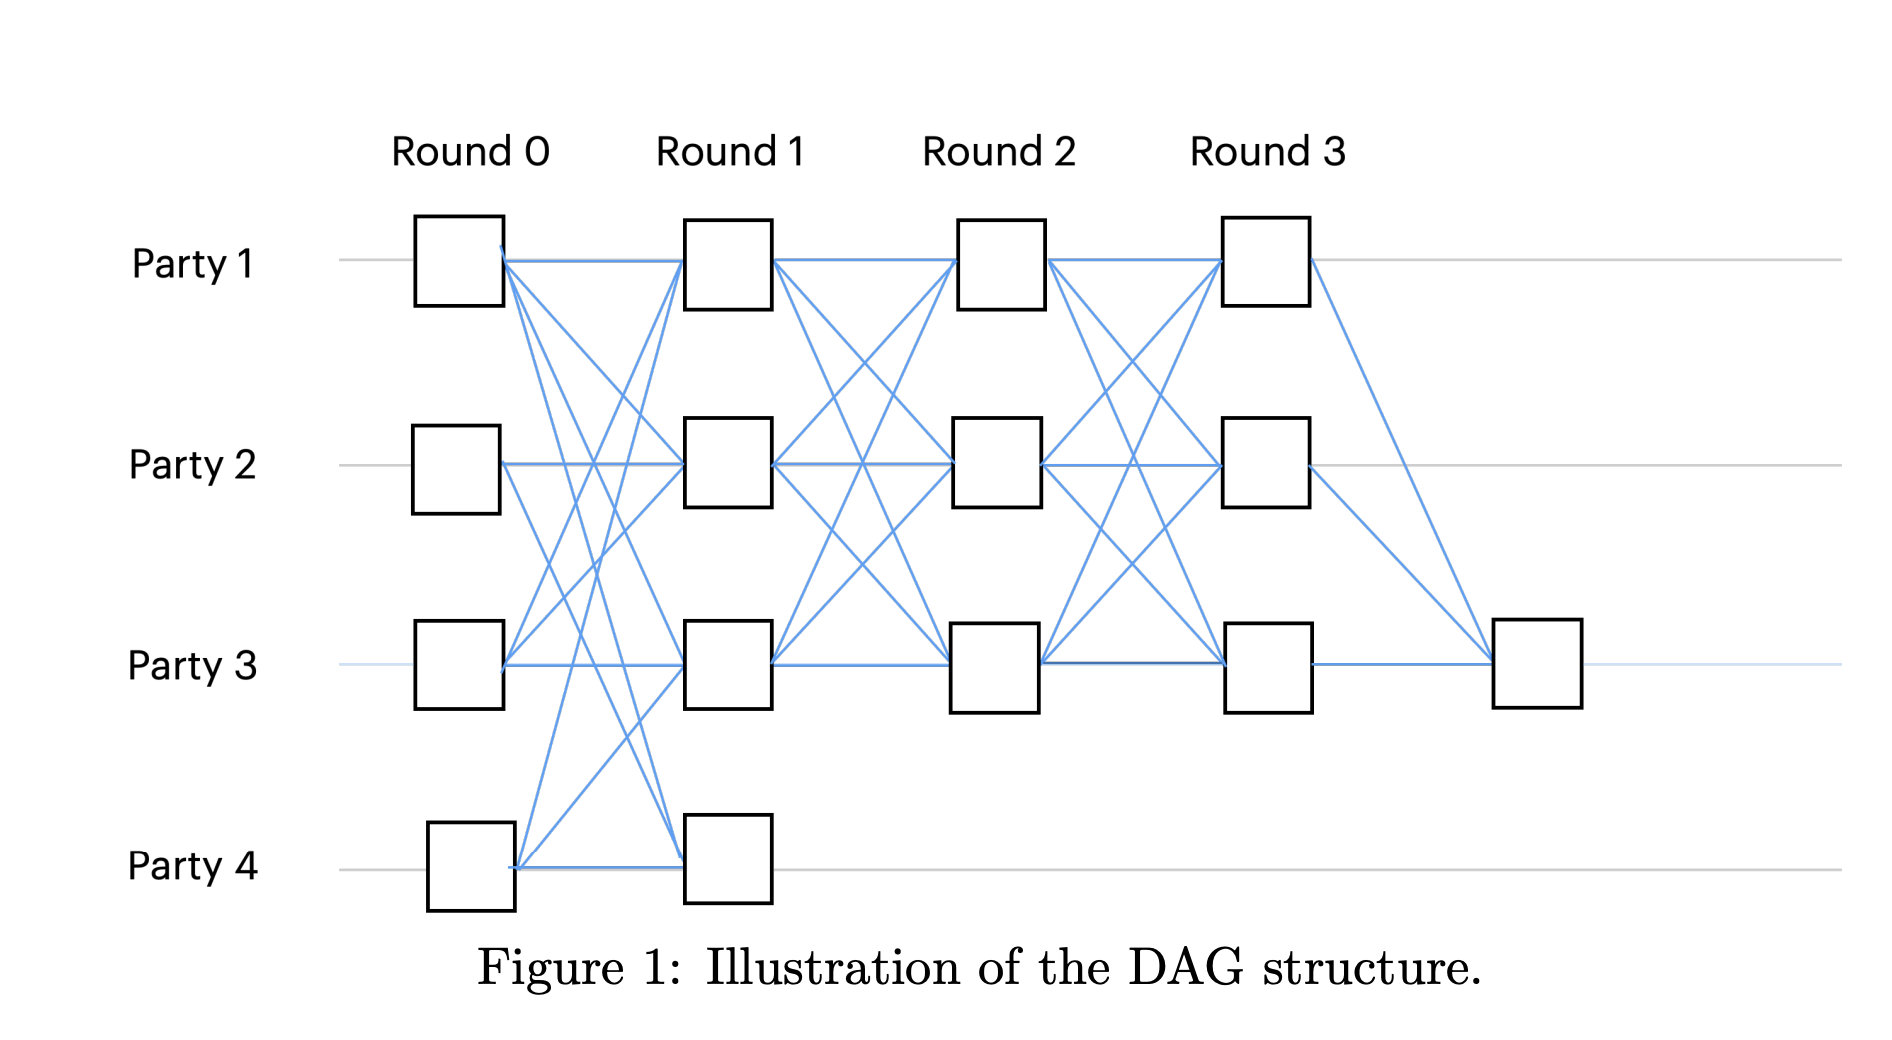
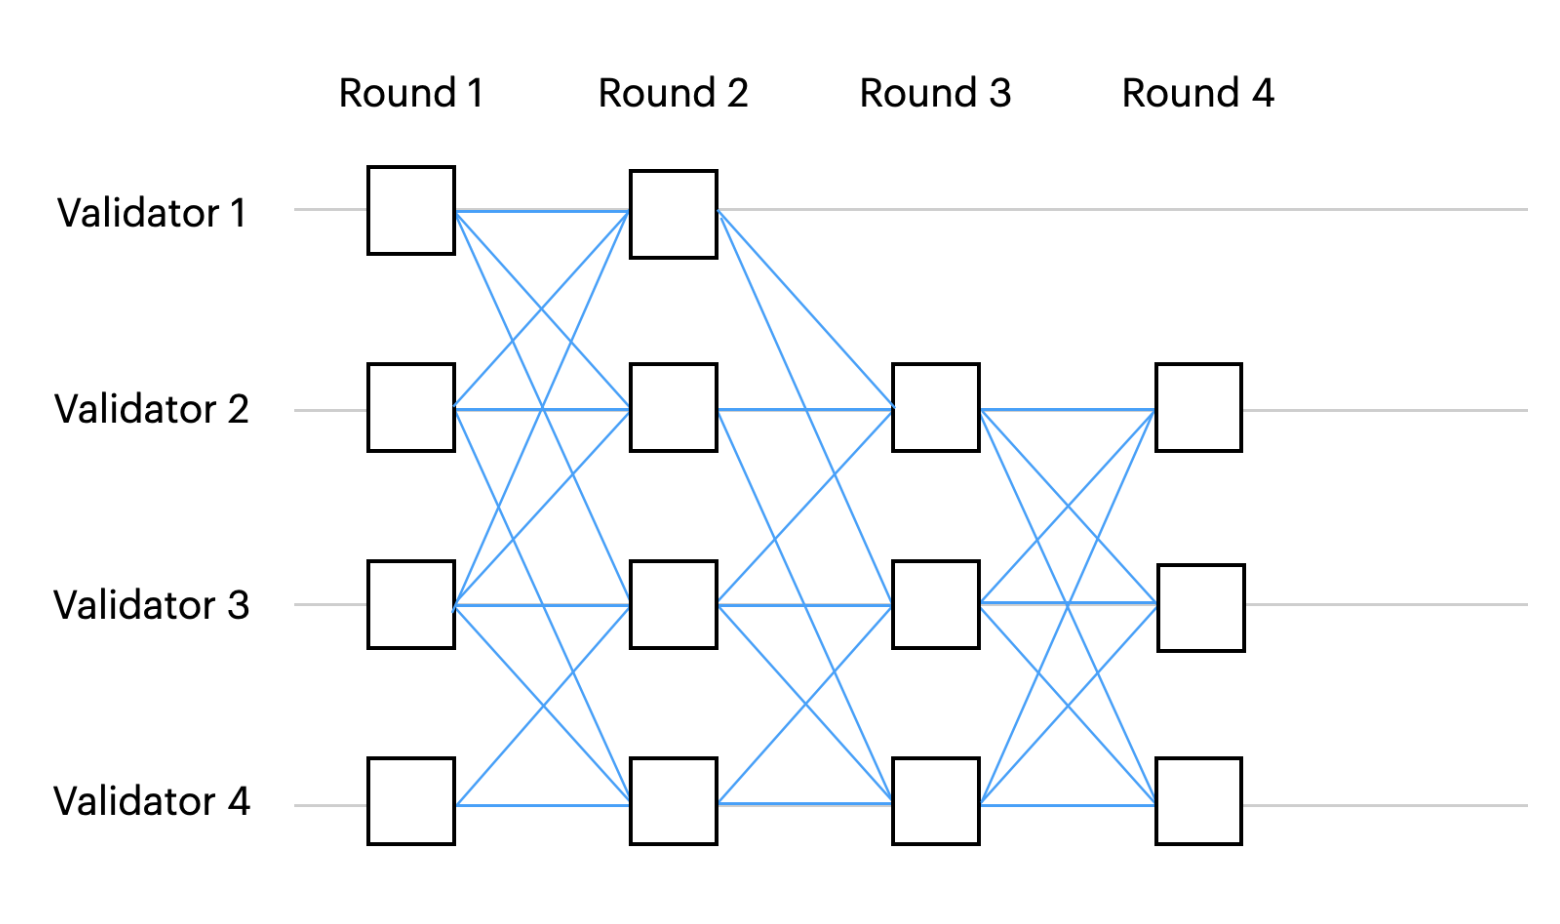
Bullshark

diff --git a/src/learn/network/concensus.md b/src/learn/network/concensus.md
@@ -31,11 +31,41 @@ AleoBFT provers are computing core components of ZK proofs and receive shares of
 ## Bullshark and Narwhal
 
 ### Bullshark
-Bullshark is a DAG-based BFT protocol, it separate the network communication layer from the ordering (consensus) logic. Each message contains a set of transactions, and a set of references to previous messages. Together, all the messages form a DAG that keeps growing – a message is a vertex and its references are edges. A vertex can be a proposal and an edge can be a vote.
+Bullshark is a DAG(Directed Acyclic Graph)-based BFT (Byzantine Fault Tolerance) protocol, it separate the network communication layer from the ordering (consensus) logic. Each message contains a set of transactions, and a set of references to previous messages. Together, all the messages form a DAG that keeps growing – a message is a vertex and its references are edges. A vertex can be a proposal and an edge can be a vote.
 
 While different parties may see slightly different DAGs at any point in time due to the asynchronous nature of the network, each validator can still totally (fully) orders all the vertices (blocks) without sending a single extra message by just looking at its local view of the DAG.
 
-The DAG being used here is a round-based DAG, each vertex is associated with round number. Each validator broadcasts one message per round and each message references at least `n−f` messages in previous round. `n` is the total number of validating nodes in the network and `f` is the number of Byzantine nodes. Below shows a diagram of how it looks like with `n = 4` and `f = 1`.
+The DAG being used here is round-based DAG, each vertex is associated with round number, each round has at most `n` vertices. Each validator broadcasts one message per round and each message references at least `n − f` messages in previous round. `n` is the total number of validating nodes in the network and `f` is the number of Byzantine nodes. Below shows a diagram of how it looks like with `n = 4` and `f = 1`.
 
 ![DAG](./images/DAG1.png)
-Diagram credits: https://arxiv.org/pdf/2209.05633
+Diagram 1: Round-based DAG  
+Image from https://decentralizedthoughts.github.io/2022-06-28-DAG-meets-BFT/
+
+### Ordering Logic
+A predefined leader is elected in every even round and the vertex associated with it is referred as anchor. Anchor is a more suitable term to describe here because unlike typical leader-based protocols where the leader has to do all the works at each round and disseminate data to all other nodes, the anchor here only get chosen to commit its casual history once gather enough votes (`2f + 1`) (3 in this example).  
+
+Each vertex in odd round can contribute one vote for the anchor in previous round. The anchor is commited if it has at least `f + 1` (2 in this example) votes. Once anchor is committed, its casual history is ordered by some deterministic rule. Green-outlined vertices shown in Diagram 2 is Anchor 2 (A2) casual history. Diagram 3 shows A2 is committed with 3 votes but A1 is not committed with only 1 vote.
+
+![DAG](./images/DAG2.png)
+Diagram 2: Anchor and casual history  
+Image from https://decentralizedthoughts.github.io/2022-06-28-DAG-meets-BFT/
+
+![DAG](./images/DAG3.png)
+Diagram 3: Commit rule  
+Image from https://decentralizedthoughts.github.io/2022-06-28-DAG-meets-BFT/
+
+Due to asynchronous nature of the network, the local views of the DAG might differ for different parties. A1 might have committed by other validator. As shown in diagram 4, validator 2 sees two (`f + 1`) votes for anchor A1 and thus commits it even though validator 1 has not.
+
+![DAG](./images/DAG4.png)
+Diagram 4: Different local view  
+Image from https://decentralizedthoughts.github.io/2022-06-28-DAG-meets-BFT/
+
+Because to commit an anchor requires `f + 1` (2 in this example) votes and each vertex in the DAG has at least `n − f` (3 in this example) edges to vertices from the previous round, it is guaranteed that if some party commits an anchor A then all anchors in higher rounds will have a path to at least one vertex that voted for A, and thus will have a path to A.
+
+This is also means that if there is no path to a anchor A from a future anchor, then no party committed A and it is safe to skip it. Diagram 5 shows that A2 is not committed by any party and thus A2 is safe to skip.
+
+![DAG](./images/DAG5.png)
+Diagram 5: Skipping uncommitted anchor  
+Image from https://decentralizedthoughts.github.io/2022-06-28-DAG-meets-BFT/
+
+When an achor is committed, the validator checks if there's a path to previous uncommitted anchor. If there is, it will commit the previous anchor as well. This process is repeated until it reaches previous committed anchor. Diagram 5 shows that A3 is committed and A1 is in the path of A3 thus A1 is committed as well.
